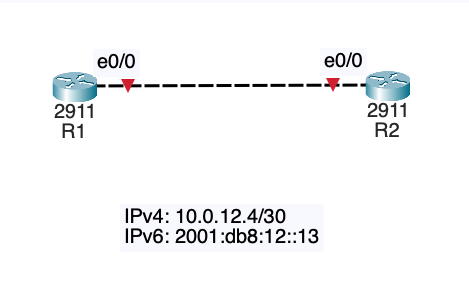
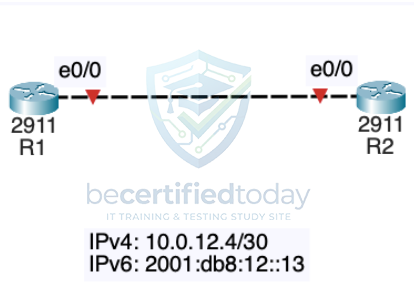
assets(ccna-labs): refresh OSPF v3 and IPv4/IPv6 topology PNGs
Replace topology images; update img dimensions/alt on OSPF v3 and
ipv4_ipv6_assign labs.

Changed region(s): [[0.0, 0.151, 0.9855, 0.5738], [0.2029, 0.604, 0.7536, 0.9362]]

diff --git a/public/CCNA-Study/CCNA_labs/cli-lab-ospf_config_sim_v3.html b/public/CCNA-Study/CCNA_labs/cli-lab-ospf_config_sim_v3.html
@@ -125,7 +125,7 @@
       user-select: none;
       -webkit-user-drag: none;
     }
-    /* Main topology art is ~750px wide — allow it to use full width on the card */
+    /* Main topology art — scales with max-width below */
     .diagram-stage--ospf-v3 {
       max-width: min(760px, 100%);
     }
@@ -584,8 +584,8 @@
         <div class="diagram-stage diagram-stage--ospf-v3">
           <img
             src="/CCNA-Study/CCNA_labs/images/ospf-config-sim-v3-topology.png"
-            width="750"
-            height="572"
+            width="623"
+            height="577"
             alt="Three-router triangle: R1 at top linked to R2 over 10.0.22.0/30 and to R3 over 10.0.33.0/29; R2 and R3 linked over 10.0.233.0/28; loopbacks 10.2.2.2/32 and 10.3.3.3/32."
             decoding="async"
           />

diff --git a/public/CCNA-Study/CCNA_labs/ipv4_ipv6_assign.html b/public/CCNA-Study/CCNA_labs/ipv4_ipv6_assign.html
@@ -570,9 +570,9 @@
         <div class="diagram-stage">
           <img
             src="/CCNA-Study/CCNA_labs/images/ipv4-ipv6-assign-topology.png"
-            width="469"
-            height="303"
-            alt="Topology: R1 (Ethernet0/0) ↔ R2 (Ethernet0/0); IPv4 10.0.12.4/30, IPv6 2001:db8:12::/126."
+            width="414"
+            height="298"
+            alt="Topology: R1 Ethernet0/0 ↔ R2 Ethernet0/0; IPv4 10.0.12.4/30; IPv6 2001:db8:12::13/126 (R2 host address on the segment)."
             decoding="async"
           />
         </div>